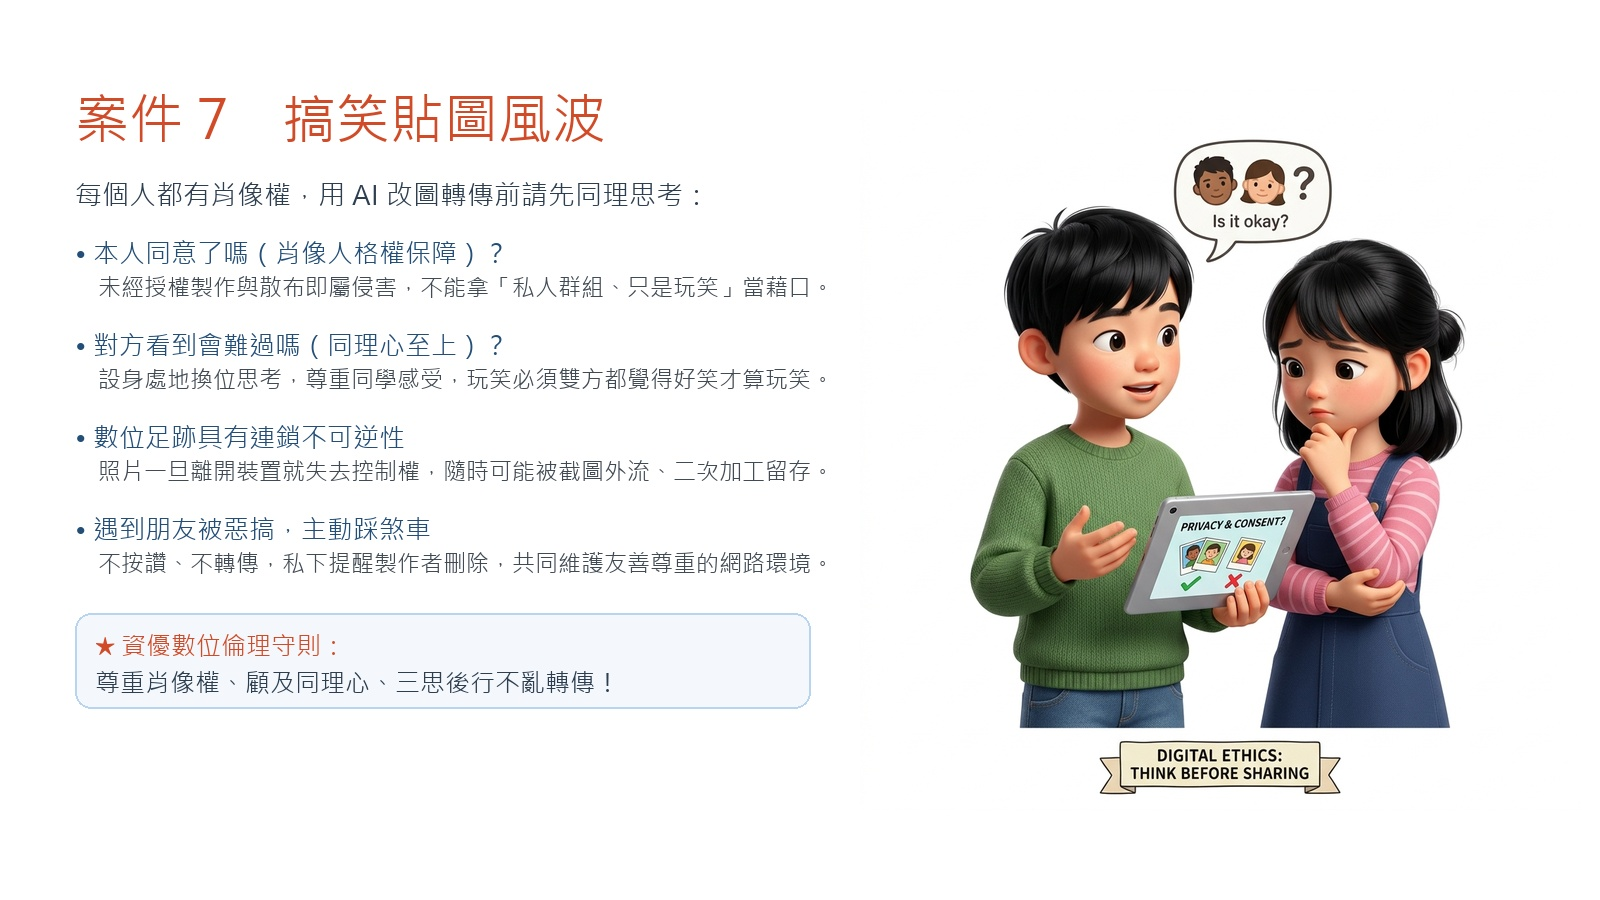
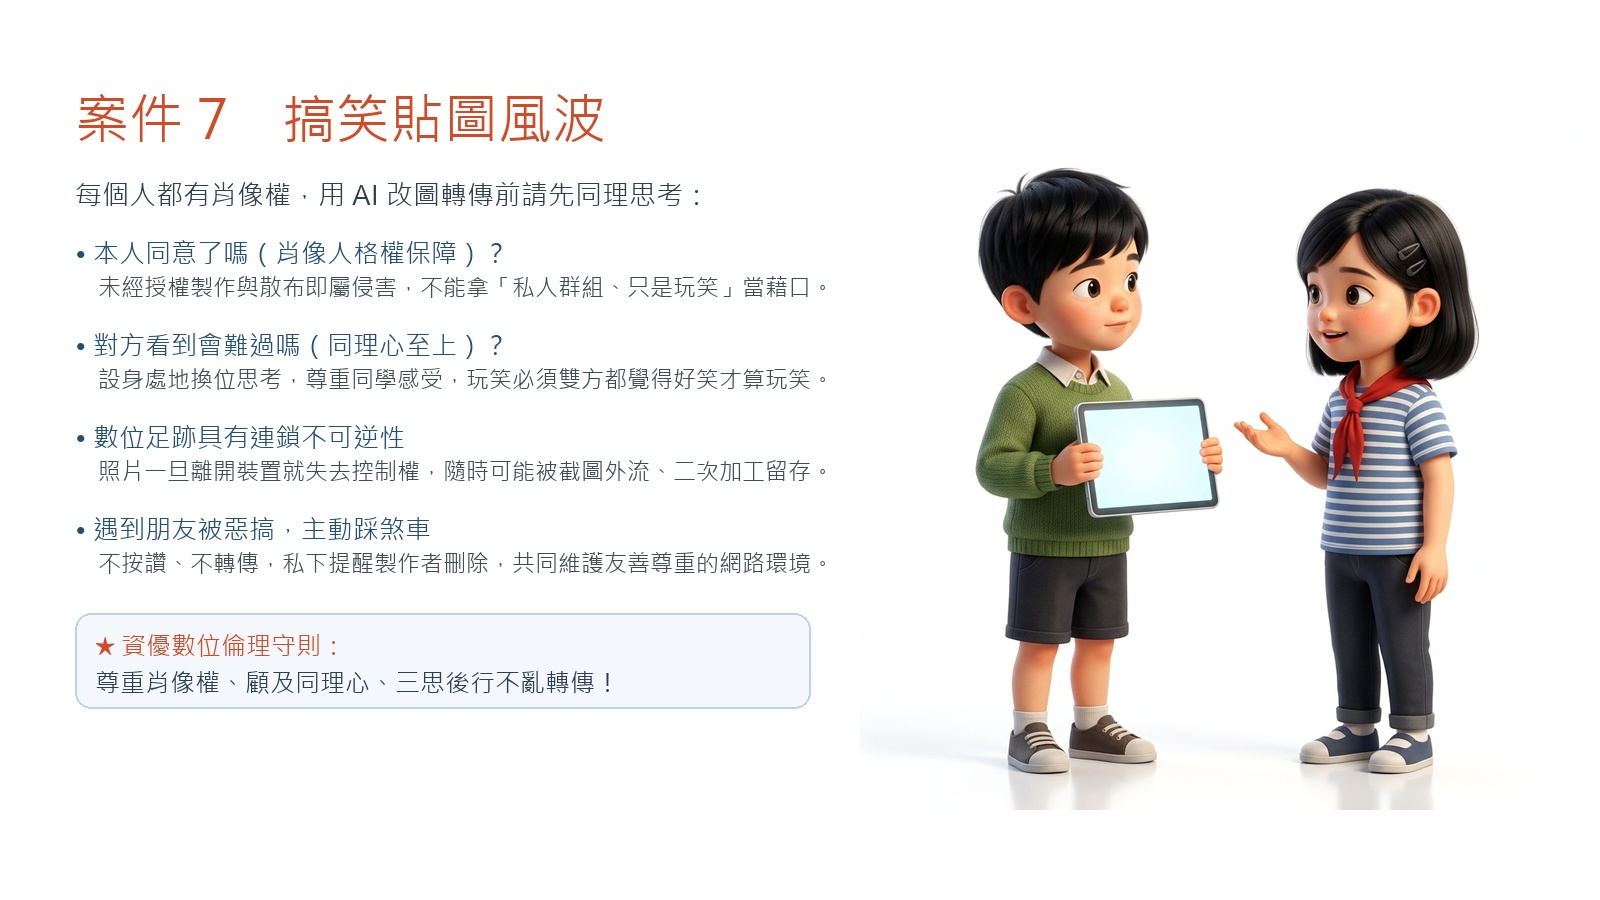
feat(g5): 全面完成所有資訊圖表原創繪本生圖升級，案件7平板螢幕純淨化，達成全單元100%原創繪本統一規範

Changed region(s): [[0.5938, 0.1556, 0.9375, 0.9022]]

diff --git a/units/g5-cyber-safety/index.html b/units/g5-cyber-safety/index.html
@@ -417,7 +417,7 @@
               feedback: '未加工的原始資料如同未打磨的砂石，而知識與智慧是耗費龐大成本提煉出的精華，外洩會直接重創組織或個人的核心競爭力。'
             }
           ],
-          infographic: 'assets/i1_dikw.jpg',
+          infographic: 'assets/i1_dikw_v2.jpg?v=20261023a',
           teacherTips: ['開場先播《賈資安偵探事務所》，請學生替自己取一個偵探代號（不用真名），寫在頁面下方的偵探證。', 'DIKW 補充：張忠謀金字塔理論新聞片段（本機影片）。']
         },
         {
@@ -439,7 +439,7 @@
               feedback: '內部人員也必須遵循「最小權限原則」，僅能調閱工作職責所需的必要資料，隨意越權存取是嚴重的內部機密性威脅。'
             }
           ],
-          infographic: 'assets/i2_cia.jpg',
+          infographic: 'assets/i2_cia_v2.jpg?v=20261023a',
           teacherTips: ['原簡報「科技大廠揪內賊」與「競業禁止條款」兩頁對五年級偏難，沒有放進學生頁；想延伸時可口頭補充：公司的機密被員工帶走，也是內部威脅。', '原簡報的 Avaliability 拼字已在資訊圖表中更正為 Availability。']
         },
         {
@@ -466,7 +466,7 @@
               feedback: '多因素驗證（MFA）必須跨越「知識、持有物、生物特徵」不同維度。兩道都是「記憶中的文字密碼」只是雙重密碼，一旦被鍵盤側錄或釣魚就會同時失守。'
             }
           ],
-          infographic: 'assets/i3_privacy.jpg',
+          infographic: 'assets/i3_privacy_v2.jpg?v=20261023a',
           teacherTips: ['舊說法「每三個月換密碼」已更新：現在的建議是用長密語、不重複使用，懷疑外洩才換，並開雙重驗證。', '提醒學生密碼破解計時器只輸入範例，不要輸入真的密碼。']
         },
         {
@@ -488,7 +488,7 @@
               feedback: '小額手續費是詐騙集團降低心防的誘餌，其真正目的是竊取卡片機密與簡訊 OTP 驗證碼，隨後在海外發動數萬元的盜刷。'
             }
           ],
-          infographic: 'assets/i4_net.jpg',
+          infographic: 'assets/i4_net_v2.jpg?v=20261023a',
           teacherTips: ['翔翔案例的討論題保留：電腦為什麼會這樣？如果是你，會不會點表哥的連結？', '原「牛刀小試」兩題已改寫成上面的想一想（天堂遊戲郵件、即時通 → 遊戲寶物私訊、LINE 借點數）。']
         },
         {
@@ -515,7 +515,7 @@
               feedback: '製造恐慌與時間壓力是所有社交工程的殺手鐧，目的就是阻止受害者冷靜下來打電話向第三方求證（Fact-Check）。'
             }
           ],
-          infographic: 'assets/i5_deepfake.jpg',
+          infographic: 'assets/i5_deepfake_v2.jpg?v=20261023a',
           teacherTips: ['家庭資安任務卡：回家和家人約一組通關密語，並幫家人檢查手機有沒有開雙重驗證，家長簽名帶回。', '可接調查局 × 臺灣吧國安動畫第三集（帳號被盜、個資外洩、假訊息），本機有影片。']
         },
         {
@@ -542,7 +542,7 @@
               feedback: '把 AI 當「思考副駕駛」啟發靈感，避免餵入真實個資，且所有結論均需人類主駕駛親自求證與負責，才是駕馭 AI 的資優思維。'
             }
           ],
-          infographic: 'assets/i6_chat.jpg',
+          infographic: 'assets/i6_chat_v2.jpg?v=20261023a',
           teacherTips: [
             '引導資優生理解 LLM（大語言模型）與傳統搜尋引擎的本質差異：搜尋引擎是檢索既有網頁，LLM 是根據統計機率生成新文字。',
             '深入討論「AI 幻覺（Hallucination）」：為什麼說話越自信流暢的模型，有時反而越容易騙過不習慣求證的人？',
@@ -578,7 +578,7 @@
               feedback: '數位資料具有「零成本無限複製」的本質，你永遠無法向所有接收者收回所有權限。'
             }
           ],
-          infographic: 'assets/i7_photo.jpg',
+          infographic: 'assets/i7_photo_v2.jpg?v=20261023a',
           teacherTips: ['站隊辯論：教室兩邊分「同意／不同意」，學生走過去，再各請兩位說理由。允許學生聽完後換邊，並說明為什麼改變想法。']
         },
         {
@@ -605,7 +605,7 @@
               feedback: '延時發布能打破「時間＋空間」的物理連結，讓潛在犯罪者無法掌握你的即時行蹤。'
             }
           ],
-          infographic: 'assets/i8_story.jpg',
+          infographic: 'assets/i8_story_v2.jpg?v=20261023a',
           teacherTips: ['可請學生分組找出自己平常拍照容易入鏡的個資（制服、名牌、車牌、門牌、窗外地標）。']
         },
         {
@@ -664,7 +664,7 @@
               feedback: '先切斷外洩管道（改密碼＋開 2FA），再清查影響範圍與通知聯絡人，避免災害擴散。'
             }
           ],
-          infographic: 'assets/i10_game.jpg',
+          infographic: 'assets/i10_game_v2.jpg?v=20261023a',
           teacherTips: ['我是反詐騙設計師：分組設計一張給阿公阿嬤或低年級看的防詐海報，或 30 秒短劇，下次課發表。']
         },
         {
@@ -696,7 +696,7 @@
               feedback: '私下破除孤立感、切斷公開演算法擴散，並保留有效法律證據，是資優公民成熟智慧的表現。'
             }
           ],
-          infographic: 'assets/i11_group.jpg',
+          infographic: 'assets/i11_group_v2.jpg?v=20261023a',
           teacherTips: ['勇氣卡：每人寫一張「如果我看到網路霸凌，我會……」，可以兩兩角色扮演練習怎麼私訊關心。', '若學生分享到真實發生的事件，課後個別關心，不在全班討論。']
         },
       ],

diff --git a/handoff.md b/handoff.md
@@ -15,13 +15,25 @@
   - 案件 9：超採樣 4K 向量高精度驚嘆號防禦圖解（`i9_phish_v2.jpg`）。
   - 案件 10：黑髮小男孩在電腦前機警關閉免費點數彈窗（`v10_game_v2.jpg`）。
   - 案件 11：小女孩溫柔關心陪伴同學反霸凌（`v11_bully_v2.jpg`）。
-- **舊版投影片已安全移入 `待刪除/`**，遵守不隨意刪除原則。
-- **全單元 11 案件高難度資優思辨題目**：全部升級為高階情境題（含 DDoS、2FA 熵值、OAuth 劫持、OSINT 等）。
+- **全套資訊圖表（Infographics）全面升級為原創純白繪本版**：
+  - 徹底淘汰舊教材所有淡綠色底板與戴偵探帽舊小人！
+  - 案件 1（DIKW 金字塔）：女同學（不拿提袋）與四層發光水晶金字塔（`i1_dikw_v2.jpg`）。
+  - 案件 2（CIA 三要素）：科技銀行金庫門與三大發光安全徽章（`i2_cia_v2.jpg`）。
+  - 案件 3（個資保護四道防線）：小男孩獅子盾牌與金鑰（`i3_privacy_v2.jpg`）。
+  - 案件 4（可疑連結檢核表）：小女孩放大鏡檢視網址（`i4_net_v2.jpg`）。
+  - 案件 5（防範 AI 假電話）：阿嬤與小男孩通關密語（`i5_deepfake_v2.jpg`）。
+  - 案件 6（跟 AI 聊天紅綠燈）：小男孩與懸浮 AI 機器人紅綠燈大卡片（`i6_chat_v2.jpg`）。
+  - 案件 7（肖像權三思卡）：小男孩純淨平板與小女孩討論（`i7_photo_v2.jpg`，投影片 `v7_photo_v2.jpg` 亦同步更新為純淨螢幕無圖版）。
+  - 案件 8（限動防洩密指南）：小美自拍限動無痕站牌（`i8_story_v2.jpg`）。
+  - 案件 9（釣魚網址與 QR code）：超採樣 4K 向量高精度驚嘆號圖解（`i9_phish_v2.jpg`）。
+  - 案件 10（遊戲點數防詐守則）：小男孩書桌拒絕代儲彈窗（`i10_game_v2.jpg`）。
+  - 案件 11（面對霸凌四步驟）：長椅小女孩溫暖遞紙巾陪伴同學（`i11_group_v2.jpg`）。
+- **舊版資訊圖表已安全移入 `待刪除/`**，全單元達到 100% 圖片由原創繪本生圖與純白向量排版統一規格！
 
 ## 🚦 目前狀態
-- 全單元 11 案件純白底 16:9 繪本簡報全部上線完成！
+- 全單元 11 個案件的「投影片」與「資訊圖表」已全數完成 100% 原創純白底升級！
 - 本地 git 即將 commit 並 push 直上 GitHub Pages。
-- Google 雲端硬碟同步備份進行中。
+- Google 雲端硬碟自動同步備份中。
 
 ## ➡ 下一步
 1. 邀請 Kristy 在線上環境全面瀏覽體驗新版駕駛艙。
